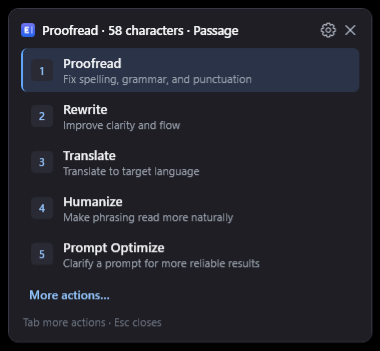
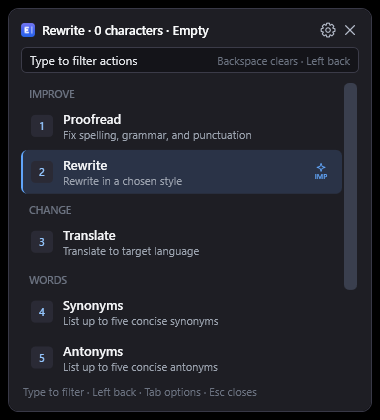
docs: rewrite styles across README, protocol and both spec docs; release 0.1.2
- README: seven actions, not nine. Humanize and Prompt Optimize removed from the
  action table and the selection matrix, a Rewrite styles table added, and a real
  screenshot of the open style dropdown.
- docs/protocol.md: documents system_suffix as the fifth extension option, and the
  rewrite example now uses it instead of a tone the panel never sent.
- docs/spec-menu.md and docs/menu-spec.md: dropped the two actions from the id
  lists, the grouped layout and the selection matrix, which had all gone stale.
- docs/media/menu.png re-shot from the running build; it showed the old five-item
  passage menu with Humanize and Prompt Optimize.
- Version 0.1.2 across app, core, engine, Cargo.lock and the WinGet manifests.

diff --git a/README.md b/README.md
@@ -30,7 +30,8 @@ Select a sentence in any app, press **Ctrl+Alt+E**, and Emendly offers the actio
 
 - **System-wide, not browser-only.** Emendly reads the focused field through UI Automation, Scintilla messages or the clipboard, with per-app rules for the apps that hide their text from the accessibility tree.
 - **On demand by design.** No background scanning, no keystroke logging, no suggestions popping up while you type.
-- **The menu fits the selection.** One word gets proofreading and synonyms; a passage gets rewrite and translation; an empty field gets compose. Nine actions in total.
+- **The menu fits the selection.** One word gets proofreading and synonyms; a passage gets rewrite and translation; an empty field gets compose. Seven actions in total.
+- **Eleven rewrite styles.** Improve, Humanize, Professional, Academic, Streamline, Creative, Simplify, Friendly, Confident, Diplomatic and Prompt Optimize, pickable on the Rewrite row and remembered between runs.
 - **Bring your own model.** Any OpenAI-compatible endpoint, including a local Ollama or LM Studio server, with your own key.
 - **A hub for the workflow features.** Saved prompts with per-prompt hotkeys, local run history, a terminology glossary, tone presets, per-app capture rules, action chains and multi-paragraph batch runs — all in the same MIT app, opened from the tray.
 
@@ -39,8 +40,8 @@ Select a sentence in any app, press **Ctrl+Alt+E**, and Emendly offers the actio
 <table>
   <tr>
     <td align="center" width="50%">
-      <img src="docs/media/menu.png" alt="Menu with five passage actions" /><br />
-      <sub><b>The menu fits the selection.</b><br />A passage gets five actions; a single word gets three.</sub>
+      <img src="docs/media/menu.png" alt="Expanded action menu grouped by Improve, Change, Words, Create" /><br />
+      <sub><b>The menu fits the selection.</b><br />A passage gets three actions; a single word gets three.</sub>
     </td>
     <td align="center" width="50%">
       <img src="docs/media/streaming.png" alt="Streaming a proofread result" /><br />
@@ -57,16 +58,20 @@ Select a sentence in any app, press **Ctrl+Alt+E**, and Emendly offers the actio
       <sub><b>Shortcut, language, endpoint, model.</b><br />Set the hotkey by pressing it, not by typing its name.</sub>
     </td>
   </tr>
+  <tr>
+    <td align="center" colspan="2">
+      <img src="docs/media/rewrite-styles.png" alt="Rewrite style dropdown listing Improve, Humanize, Professional, Academic, Streamline, Creative, Simplify, Friendly, Confident" width="380" /><br />
+      <sub><b>Eleven rewrite styles, one row.</b><br />Humanize and Prompt Optimize are two of them, not separate actions.</sub>
+    </td>
+  </tr>
 </table>
 
-## The nine actions
+## The seven actions
 
 | Action | What it does | Needs |
 |---|---|---|
 | **Proofread** | Spelling, grammar and punctuation | a selection |
-| **Rewrite** | Clearer wording, with an optional surrounding-context toggle | a selection |
-| **Humanize** | Makes model-flavoured prose read naturally | a selection |
-| **Prompt Optimize** | Turns a rough prompt into a precise one | a selection |
+| **Rewrite** | Eleven writing styles, plus an optional surrounding-context toggle | a selection |
 | **Translate** | Into the target language, chosen from a dropdown or typed freehand | a selection |
 | **Synonyms** / **Antonyms** | Up to five concise alternatives | a single word |
 | **Compose** | Drafts new text from a brief, optionally using the surrounding sentences | an empty caret |
@@ -74,13 +79,35 @@ Select a sentence in any app, press **Ctrl+Alt+E**, and Emendly offers the actio
 
 Actions are also reachable with the number keys, and `Tab` expands the full grouped list with a filter box.
 
+### Rewrite styles
+
+Pick the style on the Rewrite row with `Space`, exactly like the target language on Translate. The choice
+persists, so the next rewrite starts where you left off.
+
+| Style | What it does |
+|---|---|
+| **Improve** | Clearer and more natural, same meaning (default) |
+| **Humanize** | Natural human voice, varied rhythm, no stock phrasing |
+| **Professional** | Workplace register, no slang, no exclamation marks |
+| **Academic** | Formal scholarly register, precise and hedged |
+| **Streamline** | Shorter and tighter, same information |
+| **Creative** | More vivid phrasing, still truthful |
+| **Simplify** | Plain language, short sentences, common words |
+| **Friendly** | Warm and approachable |
+| **Confident** | Direct and assertive, no hedging |
+| **Diplomatic** | Tactful, softens disagreement |
+| **Prompt Optimize** | Clarifies a *prompt* for a model instead of rewriting prose |
+
+Humanize and Prompt Optimize used to be separate top-level actions. They are two of these styles, because
+that is what they always were.
+
 ## How it decides what to offer
 
 | What Emendly sees | What you get |
 |---|---|
 | Empty caret | Compose, Custom Prompt |
 | One word selected | Proofread, Translate, Synonyms |
-| A sentence or passage | Proofread, Rewrite, Translate, Humanize, Prompt Optimize |
+| A sentence or passage | Proofread, Rewrite, Translate |
 | Read-only text (PDF viewers, terminals) | the same menu, except results can only be copied, not inserted |
 
 Read-only windows are detected rather than guessed: Emendly never pastes into a field that cannot take text.

diff --git a/docs/menu-spec.md b/docs/menu-spec.md
@@ -28,7 +28,7 @@ Shown when the panel opens. Number keys follow the order below.
 |---|---|---|
 | No selection | Compose, Custom Prompt | 1, 2 |
 | Single word | Proofread, Translate, Synonyms | 1, 2, 3 |
-| Multiple words | Proofread, Rewrite, Translate, Prompt Optimize | 1, 2, 3, 4 |
+| Multiple words | Proofread, Rewrite, Translate | 1, 2, 3 |
 
 ## 3. Items behind "More"
 
@@ -37,9 +37,9 @@ Shown when the panel opens. Number keys follow the order below.
 | State | More items, in order | Enabled | Disabled reason |
 |---|---|---|---|
 | No selection | Synonyms, Antonyms, Translate | when the caret sits inside a word | "place the caret inside a word" |
-| No selection | Proofread, Rewrite, Prompt Optimize | never | "select text first" |
+| No selection | Compose, Custom Prompt | never | "select text first" |
 | Single word | Antonyms | always | — |
-| Single word | Rewrite, Compose, Prompt Optimize, Custom Prompt | always | — |
+| Single word | Proofread, Translate, Synonyms | always | — |
 | Multiple words | Synonyms, Antonyms | always, applied to the word under the caret, else the first word | "place the caret on a word" |
 | Multiple words | Compose, Custom Prompt | always | — |
 
@@ -82,7 +82,7 @@ The button label follows the field: `Replace` when editable, `Copy` when read-on
 
 | Case | Behaviour |
 |---|---|
-| Selection over 5,000 characters | Proofread and Rewrite allowed after a confirmation; Compose and Prompt Optimize disabled with "selection too long" |
+| Selection over 5,000 characters | Proofread and Rewrite allowed after a confirmation; Compose disabled with "selection too long" |
 | Selection spans paragraphs | Treated as multiple words; context is taken from the first and last sentences only |
 | Caret in a URL or code | Word under caret resolves as usual; no special casing in v1 |
 | Non-text selection | All actions disabled, notice "no text selected" |
@@ -96,11 +96,11 @@ The button label follows the field: `Replace` when editable, `Copy` when read-on
   "defaults": {
     "none":        ["compose", "custom_prompt"],
     "single_word": ["proofread", "translate", "synonyms"],
-    "multi_word":  ["proofread", "rewrite", "translate", "prompt_optimize"]
+    "multi_word":  ["proofread", "rewrite", "translate"]
   },
   "more": {
-    "none":        ["synonyms", "antonyms", "translate", "proofread", "rewrite", "prompt_optimize"],
-    "single_word": ["antonyms", "rewrite", "compose", "prompt_optimize", "custom_prompt"],
+    "none":        ["compose", "custom"],
+    "single_word": ["proofread", "translate", "synonyms"],
     "multi_word":  ["synonyms", "antonyms", "compose", "custom_prompt"]
   },
   "options": {
@@ -111,4 +111,4 @@ The button label follows the field: `Replace` when editable, `Copy` when read-on
 }
 ```
 
-The action ids must match the engine registry: `proofread`, `rewrite`, `compose`, `translate`, `synonyms`. `prompt_optimize`, `antonyms` and `custom_prompt` need either a new engine action or a composed prompt; that is a separate task.
+The action ids must match the engine registry: `proofread`, `rewrite`, `compose`, `translate`, `synonyms`, `antonyms`, `custom`. `humanize` and `prompt_optimize` remain in the registry only so saved chains and older requests keep working; the menu reaches them as rewrite styles instead.

diff --git a/docs/spec-menu.md b/docs/spec-menu.md
@@ -26,8 +26,7 @@ Classification runs on the trimmed selection. The replacement still uses the unt
 | `rewrite` | Rewrite | Replace, has options | passage |
 | `compose` | Compose | Insert, has options | empty |
 | `translate` | Translate | Replace, has options | word, passage |
-| `prompt_optimize` | Prompt Optimize | Replace | passage |
-| `humanize` | Humanize | Replace | passage |
+| `custom` | Custom Prompt | Custom | anywhere |
 | `synonyms` | Synonyms | Reference list | word |
 | `antonyms` | Antonyms | Reference list | none |
 | `custom` | Custom Prompt… | Replace or insert, free text | empty |
@@ -42,13 +41,13 @@ Default view, in this order:
 |---|---|---|
 | `empty` | Compose, Custom Prompt… | 1, 2 |
 | `word` | Proofread, Translate, Synonyms | 1, 2, 3 |
-| `passage` | Proofread, Rewrite, Translate, Humanize, Prompt Optimize | 1 to 5 |
+| `passage` | Proofread, Rewrite, Translate | 1 to 3 |
 
 Everything else sits under **More actions**, opened with `Tab` or the `More…` row, and keeps the grouping below:
 
 ```
-Improve      Proofread · Rewrite · Humanize
-Change       Translate · Prompt Optimize
+Improve      Proofread · Rewrite
+Change       Translate
 Words        Synonyms · Antonyms
 Create       Compose · Custom Prompt…
 ```
@@ -65,6 +64,7 @@ Options sit on one row under the highlighted item. `Tab` moves focus into the ro
 
 | Action | Option | Control | Default | Stored |
 |---|---|---|---|---|
+| Rewrite | Writing style | Dropdown anchored to the row: 11 styles | Improve | Global, persists |
 | Rewrite | Use context | Toggle chip `Context: on/off` | On | Per action, persists |
 | Compose | Use context | Toggle chip `Context: on/off` | On | Per action, persists |
 | Translate | Target language | Chip showing the language, `Space` cycles, `Enter` opens a searchable list | `language.default_target` from config | Global, persists |
@@ -117,7 +117,8 @@ A read-only selection keeps every default item. Output changes:
 
 ## 8. Engine contract additions
 
-New actions: `prompt_optimize`, `humanize`, `antonyms`, `custom`.
+New actions: `antonyms`, `custom`. `humanize` and `prompt_optimize` are not top-level actions:
+they are two of the eleven rewrite styles, applied through `system_suffix`.
 
 New request fields under `options`:
 

diff --git a/docs/protocol.md b/docs/protocol.md
@@ -20,7 +20,7 @@ Every request is one line with an `id` and a `type`.
 {"id":"r3","type":"config.get"}
 {"id":"r4","type":"config.set","patch":{"model":"gpt-5-mini"}}
 {"id":"r5","type":"actions.run","action":"proofread","text":"their going too the store"}
-{"id":"r6","type":"actions.run","action":"rewrite","text":"We need this by Friday.","options":{"tone":"professional"}}
+{"id":"r6","type":"actions.run","action":"rewrite","text":"We need this by Friday.","options":{"system_suffix":"Rewrite the text in a polished professional workplace register without slang or exclamation marks."}}
 {"id":"r7","type":"actions.run","action":"translate","text":"Good morning","options":{"target_lang":"German"}}
 {"id":"r8","type":"actions.run","action":"compose","text":"","options":{"brief":"Decline the meeting politely, offer Tuesday","context":"Email to a vendor"}}
 {"id":"r9","type":"cancel","target":"r5"}
@@ -36,11 +36,12 @@ Rules:
 
 ### Extension options
 
-`actions.run` accepts four optional keys inside `options`. All are additive; a request that omits them behaves exactly as before.
+`actions.run` accepts five optional keys inside `options`. All are additive; a request that omits them behaves exactly as before.
 
 | Key | Type | Effect |
 |---|---|---|
 | `system_prefix` | string | Prepended to the action's system prompt, separated by a blank line. Use it for tone presets or caller-supplied instructions. |
+| `system_suffix` | string | Appended after the action's system prompt, separated by a blank line. Use it to adjust the instruction without replacing it — this is how rewrite styles are applied. |
 | `system_override` | string | Replaces the action's system prompt entirely. Blank strings are ignored. |
 | `user_template_override` | string | Replaces the action's `user_template`. Supports the same placeholders: `{{text}}`, `{{tone}}`, `{{target_lang}}`, `{{brief}}`, `{{instruction}}`, `{{context}}`. |
 | `glossary` | array | Terminology rules, rendered into the system prompt. |
